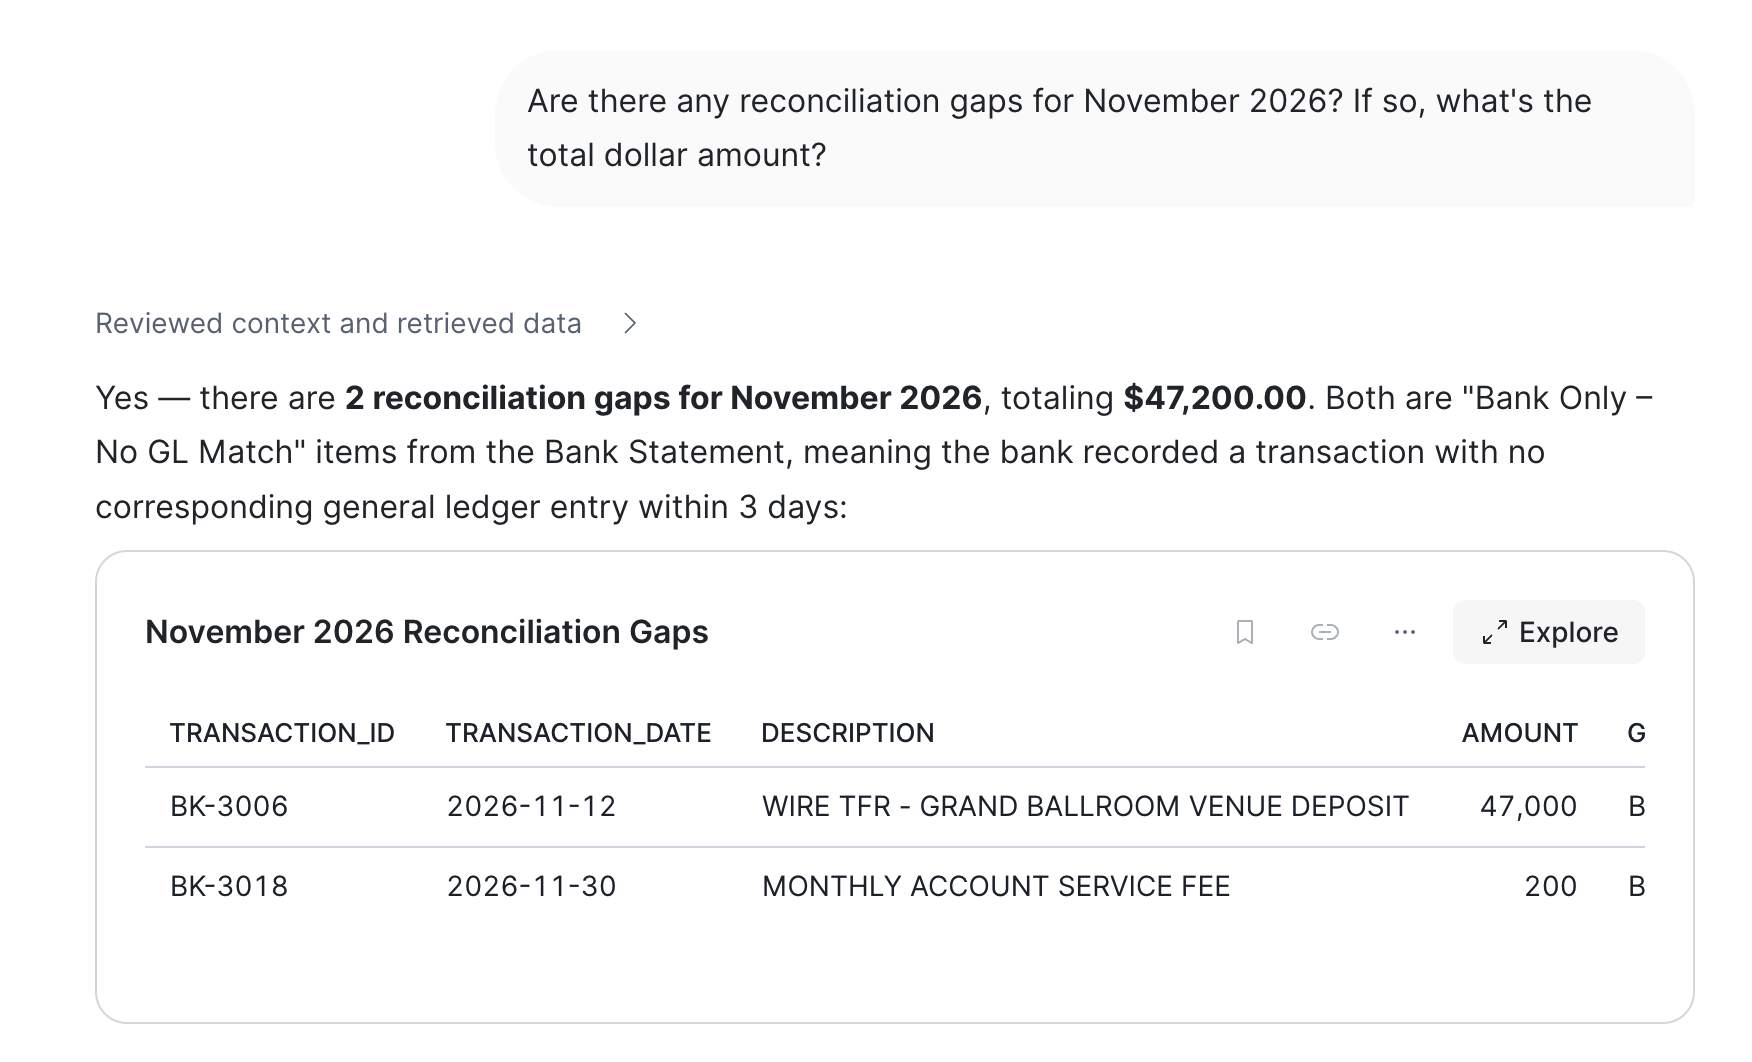
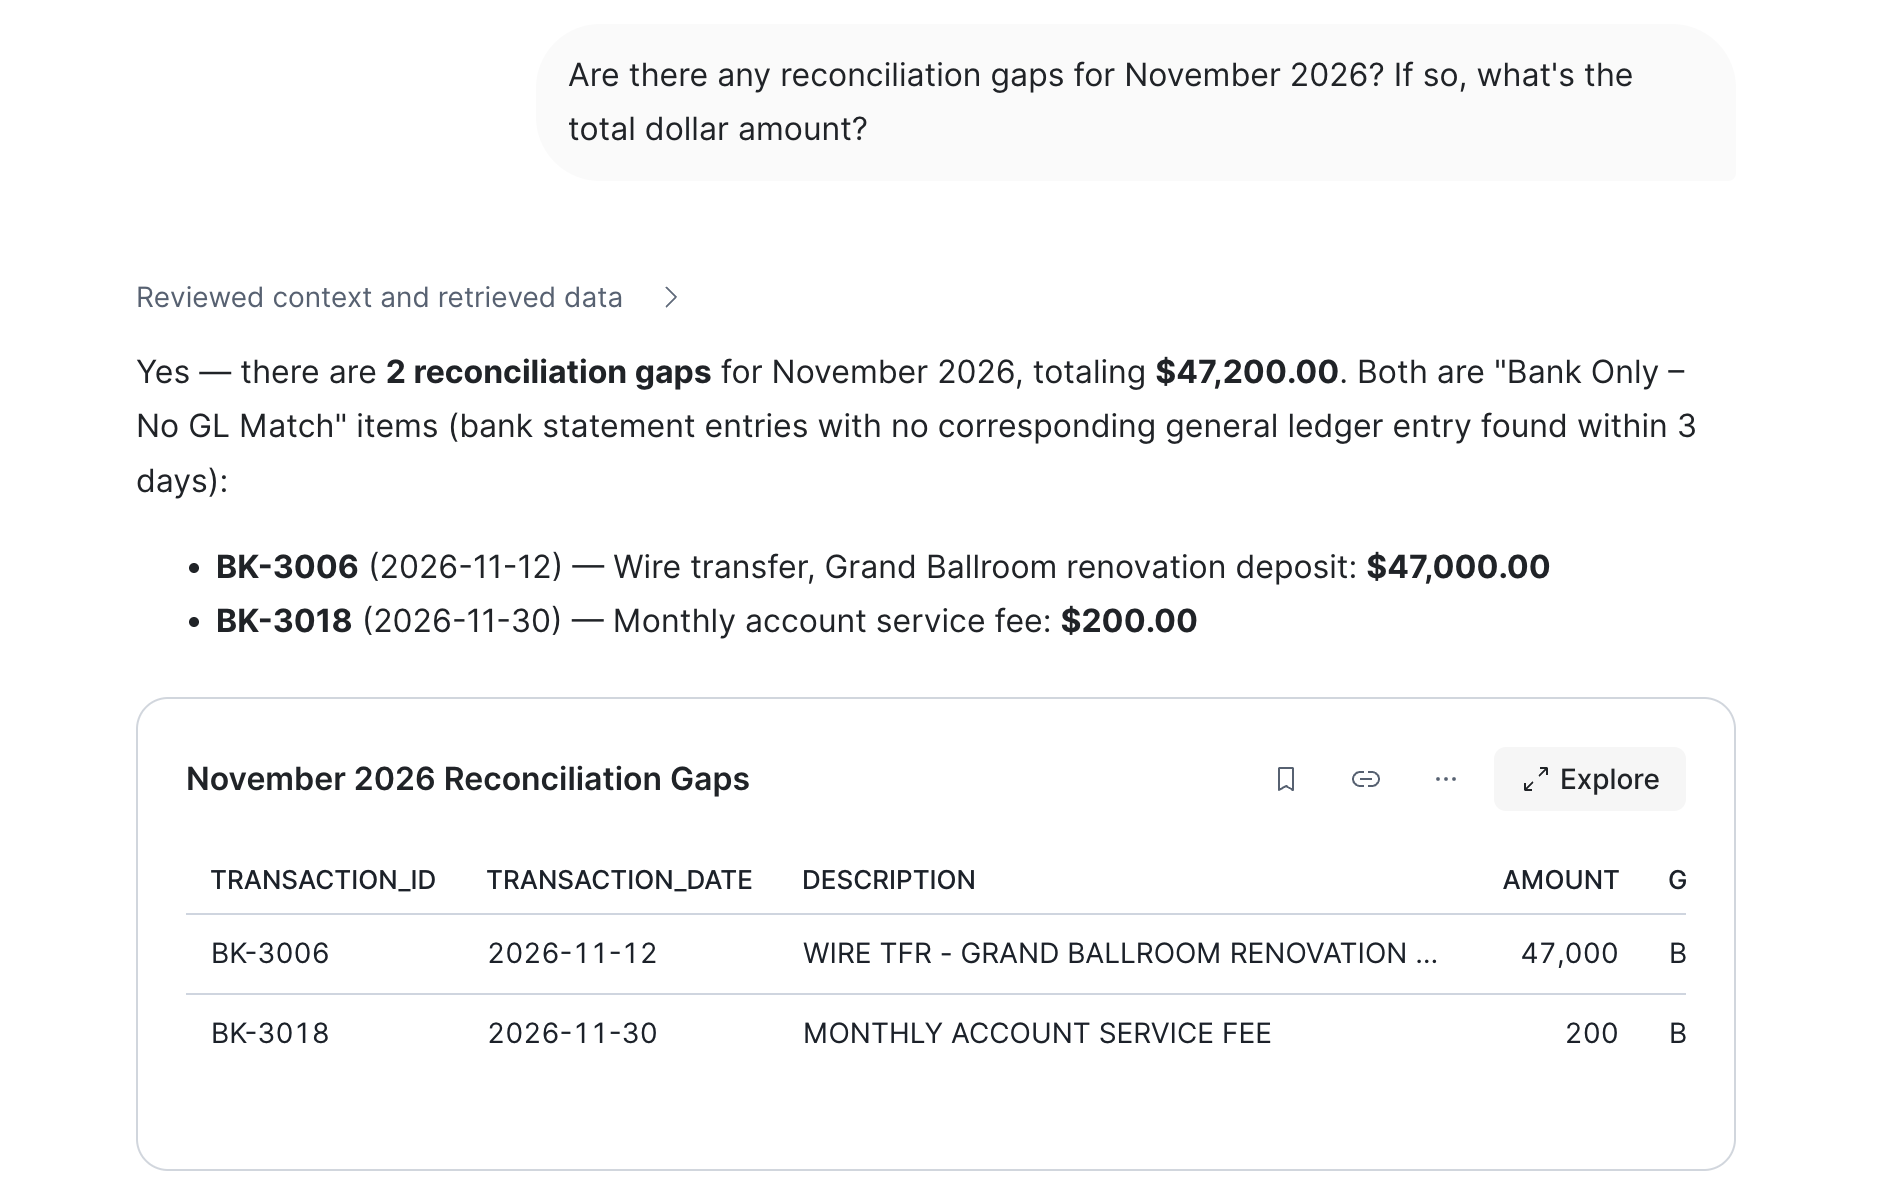
Update close-faster-with-coco-and-cowork.md (#3601)
* Update close-faster-with-coco-and-cowork.md

* Add files via upload

diff --git a/site/sfguides/src/close-faster-with-coco-and-cowork/close-faster-with-coco-and-cowork.md b/site/sfguides/src/close-faster-with-coco-and-cowork/close-faster-with-coco-and-cowork.md
@@ -65,7 +65,7 @@ Duration: 2
 
 You're on the finance operations team at Meridian Stay, and it's the first week of December 2026. The November close is due, and the controller wants every discrepancy identified before the external auditors arrive on December 10.
 
-Last quarter, a $47,000 wire transfer for a conference venue deposit cleared the bank but was never journaled in the general ledger. The auditors flagged it, and the team spent a week tracing it back to a journal entry nobody created. Leadership wants to know: could it happen again, and is anything else missing?
+Last quarter, a $47,000 wire transfer for a ballroom renovation deposit to a ccontractor cleared the bank but was never journaled in the general ledger. The auditors flagged it, and the team spent a week tracing it back to a journal entry nobody created. Leadership wants to know: could it happen again, and is anything else missing?
 
 The root cause is simple: the three financial systems don't agree with each other.
 
@@ -73,7 +73,7 @@ The root cause is simple: the three financial systems don't agree with each othe
 |---|---|---|
 | Payroll register (ADP / Workday) | `payroll_register.csv` | `MM/DD/YYYY` dates, amounts stored as text (`"$4,200.00"`), department codes like `F&B` and `MGMT`, and one row exported twice |
 | General ledger (NetSuite / SAP) | `gl_journal_entries.csv` | `Nov 01 2026` dates, debits in parentheses (`(23,900.00)`), category codes (`PAY`, `UTIL`, `MAINT`), and a **Reversed** entry that was never removed |
-| Bank statement | `bank_statement.csv` | `YYYY-MM-DD` dates, debits as negative numbers, free-text descriptions (`"WIRE TFR - GRAND BALLROOM VENUE DEPOSIT"`), and no category or department columns |
+| Bank statement | `bank_statement.csv` | `YYYY-MM-DD` dates, debits as negative numbers, free-text descriptions (`"WIRE TFR - GRAND BALLROOM RENOVATION DEPOSIT"`), and no category or department columns |
 
 ### Here's the plan
 
@@ -202,7 +202,7 @@ You should see **13**, **18**, and **18** rows loaded. CoCo may list the columns
 
 Run the **`peek_raw`** cell. It shows every row from all three exports side by side, so you can see the problems before you fix them:
 
-- **Bank:** The cleanest of the three — ISO dates, negative numbers for debits — but the descriptions are free text (`"WIRE TFR - GRAND BALLROOM VENUE DEPOSIT"`), and there's no category or department at all.
+- **Bank:** The cleanest of the three — ISO dates, negative numbers for debits — but the descriptions are free text (`"WIRE TFR - GRAND BALLROOM RENOVATION DEPOSIT"`), and there's no category or department at all.
 - **GL:** Amounts are in parentheses for debits: `(23,900.00)`. Dates say `Nov 01 2026`. JE-2014 is a **Reversed** entry that cancels JE-2013, but both are still in the export. Categories are codes: `PAY`, `UTIL`, `MAINT`.
 - **Payroll:** James Rivera (EMP-102) appears **twice** on 11/15 with the same reference ID — a re-export duplicate. Amounts are text like `"$4,200.00"`. Departments say `F&B` and `MGMT` instead of full names.
 
@@ -298,10 +298,10 @@ Run the **`check_gaps`** cell. You should see **2 gaps** totaling **$47,200**:
 
 | Gap | Transaction | Date | Amount | Description |
 |---|---|---|---|---|
-| 1 | BK-3006 | 2026-11-12 | $47,000.00 | WIRE TFR - GRAND BALLROOM VENUE DEPOSIT |
+| 1 | BK-3006 | 2026-11-12 | $47,000.00 | WIRE TFR - GRAND BALLROOM RENOVATION DEPOSIT |
 | 2 | BK-3018 | 2026-11-30 | $200.00 | MONTHLY ACCOUNT SERVICE FEE |
 
-The first gap is the one leadership was afraid of: a **$47,000 venue deposit wire, paid on November 12 and never journaled**. It's the same kind of miss the auditors flagged last quarter, and it happened again. Someone authorized the payment, but nobody created the GL journal entry. But look at the second one: **BK-3018, $200, MONTHLY ACCOUNT SERVICE FEE**. This wasn't in anyone's close checklist. You just discovered it because you matched every bank transaction against the GL instead of spot-checking the big ones.
+The first gap is the one leadership was afraid of: a **$47,000 renovation deposit wire, paid on November 12 and never journaled**. It's the same kind of miss the auditors flagged last quarter, and it happened again. Someone authorized the payment, but nobody created the GL journal entry. But look at the second one: **BK-3018, $200, MONTHLY ACCOUNT SERVICE FEE**. This wasn't in anyone's close checklist. You just discovered it because you matched every bank transaction against the GL instead of spot-checking the big ones.
 
 This is the kind of gap that a manual close misses: too small to flag, too regular to question, and exactly the sort of thing that turns into an audit finding when someone finally looks.
 
@@ -335,7 +335,7 @@ The dashboard tells one story from top to bottom:
 
 - **Summary metrics** at the top: how many of the 18 bank transactions matched the GL (16 of 18, 89%), whether the month is ready to close (**Not Ready**, 2 gaps remain), and the total unreconciled amount ($47,200).
 - A **waterfall chart** that traces November's cash flow from opening to closing balance. Each bar is a payment leaving the account. **Blue** bars matched a GL entry; **red** bars did not. Red triangles call out each gap's transaction ID and amount (BK-3006 for $47,000 and BK-3018 for $200).
-- **Investigate the gaps** — one card per gap. Each card states what the bank paid, shows the GL entries around that date, and explains why none of them match. The root cause is right there: the $47,000 venue deposit was authorized but never journaled; the $200 bank fee is a recurring gap that nobody journals.
+- **Investigate the gaps** — one card per gap. Each card states what the bank paid, shows the GL entries around that date, and explains why none of them match. The root cause is right there: the $47,000 renovation deposit was authorized but never journaled; the $200 bank fee is a recurring gap that nobody journals.
 - **Next steps to close** — a numbered list of the journal entries that need to be posted. Once every gap has one, reconciliation reaches 100% and the month is ready to close.
 - A collapsed **Full ledger** expander at the bottom with all 46 transactions and filters by source system and category.
 
@@ -495,7 +495,7 @@ Since you created the agent through the UI, it's already available in Snowflake 
 
    > *"Are there any reconciliation gaps for November 2026? If so, what's the total dollar amount?"*
 
-The agent should find **2 gaps** totaling **$47,200**: the $47,000 venue deposit wire transfer and the $200 bank service fee.
+The agent should find **2 gaps** totaling **$47,200**: the $47,000 renovation deposit wire transfer and the $200 bank service fee.
 
 ![questionone](./assets/questionone.png)
 
@@ -505,7 +505,7 @@ The first answer tells you *what* doesn't tie out. Continue the same conversatio
 
 1. **Understand the big one.** Ask: *"Tell me everything about the $47,000 wire transfer. When did it hit the bank, and what was it for?"*
 
-   You should see it's BK-3006, dated November 12, described as "WIRE TFR - GRAND BALLROOM VENUE DEPOSIT." It hit the bank but was never journaled in the GL — someone authorized the payment, but nobody created the journal entry.
+   You should see it's BK-3006, dated November 12, described as "WIRE TFR - GRAND BALLROOM RENOVATION DEPOSIT." It hit the bank but was never journaled in the GL — someone authorized the payment, but nobody created the journal entry.
 
 2. **Ask if it will happen again.** Ask: *"Which of these gaps will happen again next month, and what should we change so it doesn't?"*
 
@@ -561,7 +561,7 @@ Congratulations! You took Meridian Stay's November close from three disconnected
 
 - Landed raw exports in **Snowflake-managed Apache Iceberg tables**, keeping the data in an open format
 - Used **CoCo** to standardize department names and category codes, parse three date formats and three amount formats, remove a payroll duplicate, and drop a reversed GL entry along with the entry it cancels
-- Found **2 reconciliation gaps** totaling **$47,200** — a $47,000 venue deposit wire transfer that was never journaled and a $200 bank fee that was never recorded
+- Found **2 reconciliation gaps** totaling **$47,200** — a $47,000 renovation deposit wire transfer that was never journaled and a $200 bank fee that was never recorded
 - Ran a **Streamlit** reconciliation dashboard that visualizes every gap and shows the root cause, then used **CoCo** to add a payroll tie-out
 - Created a **Semantic View** with CoCo and a **Cortex Agent** backed by it
 - Asked close-cycle questions in plain language in **Snowflake CoWork**
